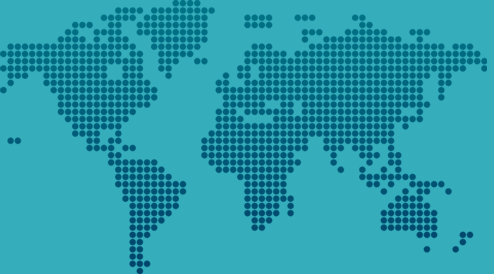
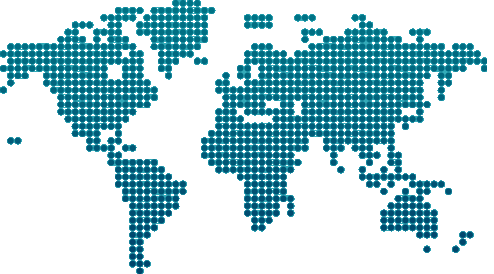
section #4 global things

diff --git a/modules/who-is-qualcomm/css/main.css b/modules/who-is-qualcomm/css/main.css
@@ -243,7 +243,9 @@ sup {
 .bg-6 {
 	background-color: #666;
 }
-
+.bg-blue {
+	background-color: #38ABB9;
+}
 .box-blind {
     height: 1px !important;
     background-color: transparent;
@@ -585,7 +587,257 @@ h1 {
 	-webkit-animation-delay: 0.5s;
 	animation-delay: 0.5s;
 }
-/* #4 #4.5 ... */
+/* #4 global */
+#global .text-position.center {
+	padding-left: 0;
+	padding-right: 0;
+	width: 100%;
+}
+#global .map {
+	display: block;
+	width: 494px;
+	height: 274px;
+	position: relative;
+	margin: 41px auto 0;
+}
+#global .eco {
+	width: 33px;
+	height: 32px;
+	position: absolute;
+	top: 119px;
+	left: 48px;
+	z-index: 2;
+}
+#global .eco .in {
+	width: 100%;
+	height: 100%;
+	background:url(../img/ic-plus.png) no-repeat 0 0;
+	background-size: cover;
+	
+	-moz-animation-delay: 1s;
+	-webkit-animation-delay: 1s;
+	animation-delay: 1s;
+	
+	-moz-animation-duration: 0.3s;
+	-webkit-animation-duration: 0.3s;
+	animation-duration: 0.3s;
+}
+#global .eco.p2 {
+	top: 141px;
+	left: 147px;
+}
+#global .eco.p2 .in {
+	-moz-animation-delay: 1.2s;
+	-webkit-animation-delay: 1.2s;
+	animation-delay: 1.2s;
+}
+#global .eco.p3 {
+	top: 90px;
+	left: 196px;
+}
+#global .eco.p3 .in {
+	-moz-animation-delay: 1.4s;
+	-webkit-animation-delay: 1.4s;
+	animation-delay: 1.4s;
+}
+#global .eco.p4 {
+	top: 159px;
+	left: 282px;
+}
+#global .eco.p4 .in {
+	-moz-animation-delay: 1.6s;
+	-webkit-animation-delay: 1.6s;
+	animation-delay: 1.6s;
+}
+#global .eco.p5 {
+	top: 42px;
+	left: 293px;
+}
+#global .eco.p5 .in {
+	-moz-animation-delay: 1.8s;
+	-webkit-animation-delay: 1.8s;
+	animation-delay: 1.8s;
+}
+#global .eco.p6 {
+	top: 79px;
+	left: 379px;
+}
+#global .eco.p6 .in {
+	-moz-animation-delay: 2s;
+	-webkit-animation-delay: 2s;
+	animation-delay: 2s;
+}
+#global .eco.bg {
+	width: 100%;
+	height: 100%;
+	top: 0;
+	left: 0;
+	z-index: 1;
+}
+#global .eco.bg .in {
+	background-image: url(../img/bg-global.png);
+	
+	-webkit-animation:fadein 2s ease-in backwards;
+	-moz-animation:fadein 2s ease-in backwards;
+	animation:fadein 2s ease-in backwards;
+	
+	-moz-animation-duration: 1s;
+	-webkit-animation-duration: 1s;
+	animation-duration: 1s;
+}
+#global .text-position ul.circles {
+	display: block;
+	width: 588px;
+	height: 186px;
+	margin: 20px auto 65px;
+	padding: 0;
+	text-align: center;
+	list-style: none;
+	max-width: none;
+}
+#global ul.circles li {
+	position: relative;
+	float: left;
+	background: #fcf9f9;
+	border-radius: 93px;
+	color: #414141;
+	margin: 0 0 30px;
+	padding: 0;
+	width: 186px;
+	height: 186px;
+	font-size: 21px;
+	line-height: 1em;
+	
+	-moz-animation-delay: 2.5s;
+	-webkit-animation-delay: 2.5s;
+	animation-delay: 2.5s;
+}
+#global ul.circles li.c2 {
+	margin: 0 15px 30px;
+	
+	-moz-animation-delay: 3.75s;
+	-webkit-animation-delay: 3.75s;
+	animation-delay: 3.75s;
+}
+#global ul.circles li.c3 {
+	-moz-animation-delay: 5s;
+	-webkit-animation-delay: 5s;
+	animation-delay: 5s;
+}
+#global ul.circles span {
+	display: block;
+	font-size: 85px;
+	line-height: 85px;
+	padding: 20px 0 0;
+	position: relative;
+	top: 10px;
+}
+#global ul.circles li.c1 span {
+	font-size: 50px;
+}
+#global ul.circles li.c2 span {
+	padding-bottom: 8px
+}
+p.disc {
+	font-size: 0.7em;
+	padding-bottom: 41px;
+}
+@media screen and (min-width: 600px) and (max-width: 799px) {
+	/* fit inside 540 */
+	#global .text-position ul.circles {
+		width: 540px;
+		height: 170px;
+	}
+	#global ul.circles li {
+		width: 170px;
+		height: 170px;
+	}
+}
+@media screen and (max-width: 599px) {
+	/* fit inside 540 */
+	#global .text-position ul.circles {
+		width: 100%;
+		height: auto;
+	}
+	#global ul.circles li,
+	#global ul.circles li.c2 {
+		width: 186px;
+		height: 186px;
+		float: none;
+		display: block;
+		margin: 0 auto 30px;
+	}
+p.disc {
+	font-size: 13px
+}
+}
+@media screen and (min-width: 480px) and (max-width: 599px) {
+	/* scale down 89% from full size, to fit 440 */
+	#global .map {
+		width: 440px;
+		height: 244px;
+	}
+	#global .eco {
+		width: 29px;
+		height: 28px;
+		top: 106px;
+		left: 43px;
+	}
+	#global .eco.p2 {
+		top: 125px;
+		left: 131px;
+	}
+	#global .eco.p3 {
+		top: 80px;
+		left: 174px;
+	}
+	#global .eco.p4 {
+		top: 142px;
+		left: 251px;
+	}
+	#global .eco.p5 {
+		top: 37px;
+		left: 261px;
+	}
+	#global .eco.p6 {
+		top: 70px;
+		left: 337px;
+	}
+}
+@media screen and (max-width: 479px) {
+	/* scale down 60.7% from full size, to fit 300 */
+	#global .map {
+		width: 300px;
+		height: 166px;
+	}
+	#global .eco {
+		width: 20px;
+		height: 19px;
+		top: 72px;
+		left: 23px;
+	}
+	#global .eco.p2 {
+		top: 86px;
+		left: 89px;
+	}
+	#global .eco.p3 {
+		top: 55px;
+		left: 119px;
+	}
+	#global .eco.p4 {
+		top: 97px;
+		left: 171px;
+	}
+	#global .eco.p5 {
+		top: 25px;
+		left: 178px;
+	}
+	#global .eco.p6 {
+		top: 48px;
+		left: 230px;
+	}
+}
+/* #4.5 ... */
 /* #5 heritage */
 .block#heritage {
 	background: url(../img/bg-heritage.jpg) no-repeat center center;

diff --git a/modules/who-is-qualcomm/index.php b/modules/who-is-qualcomm/index.php
@@ -110,11 +110,20 @@
 				</section>
         
 				<?php // Slide #4 ?>
-				<section id="global" class="bg-blue-grad block comeon">
+				<section id="global" class="bg-blue block comeon">
 					<div class="inner">
           	<div class="text-position center txtw">
             	<h2>We are <span class="thick">global and diverse</span></h2>
-              <p><br /><br />... map and circles here ...<br /><br /><br /><br /></p>
+              <div class="map growin">
+              	<div class="eco bg"><div class="in"></div></div>
+                <div class="eco p1"><div class="in"></div></div>
+                <div class="eco p2"><div class="in"></div></div>
+                <div class="eco p3"><div class="in"></div></div>
+                <div class="eco p4"><div class="in"></div></div>
+                <div class="eco p5"><div class="in"></div></div>
+                <div class="eco p6"><div class="in"></div></div>
+              </div>
+              <ul class="circles"><li class="c1 fadein"><span class="txtbl">31,000</span> Approximate<br />employees*</li><li class="c2 fadein"><span class="txtbl">85</span> US locations</li><li class="c3 fadein"><span class="txtbl">191</span> Worldwide<br />locations</li></ul>
               <p class="disc">* Full-time, part-time and temporary employees per FY13 Form 10-K</p>
             </div>
           </div>
